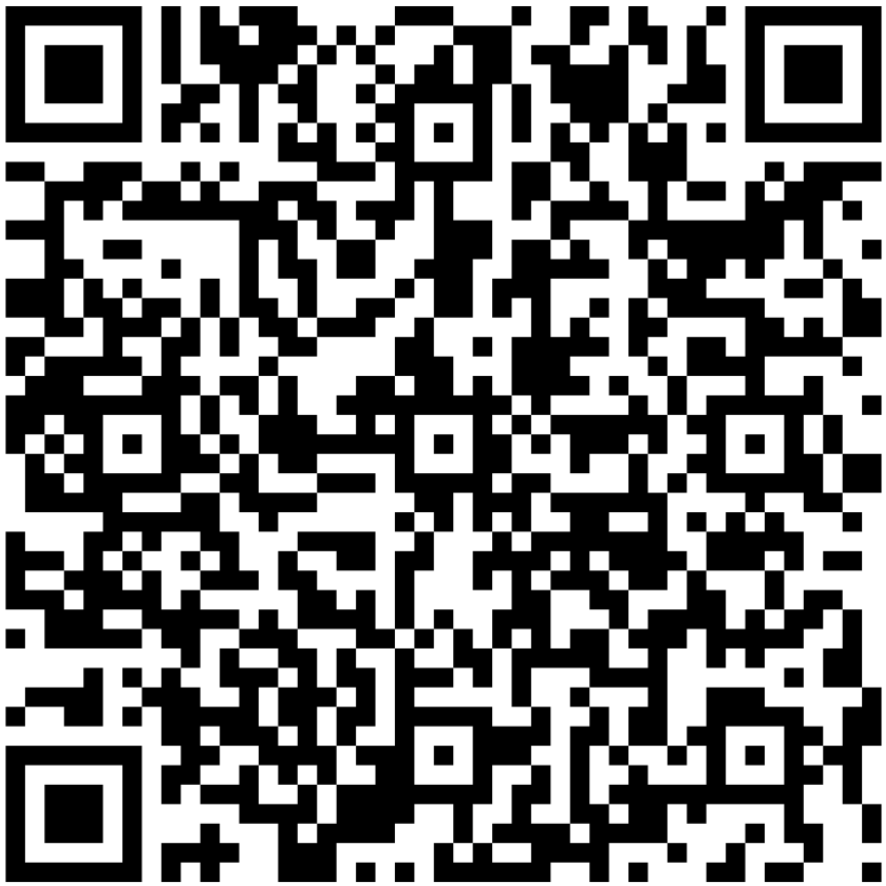
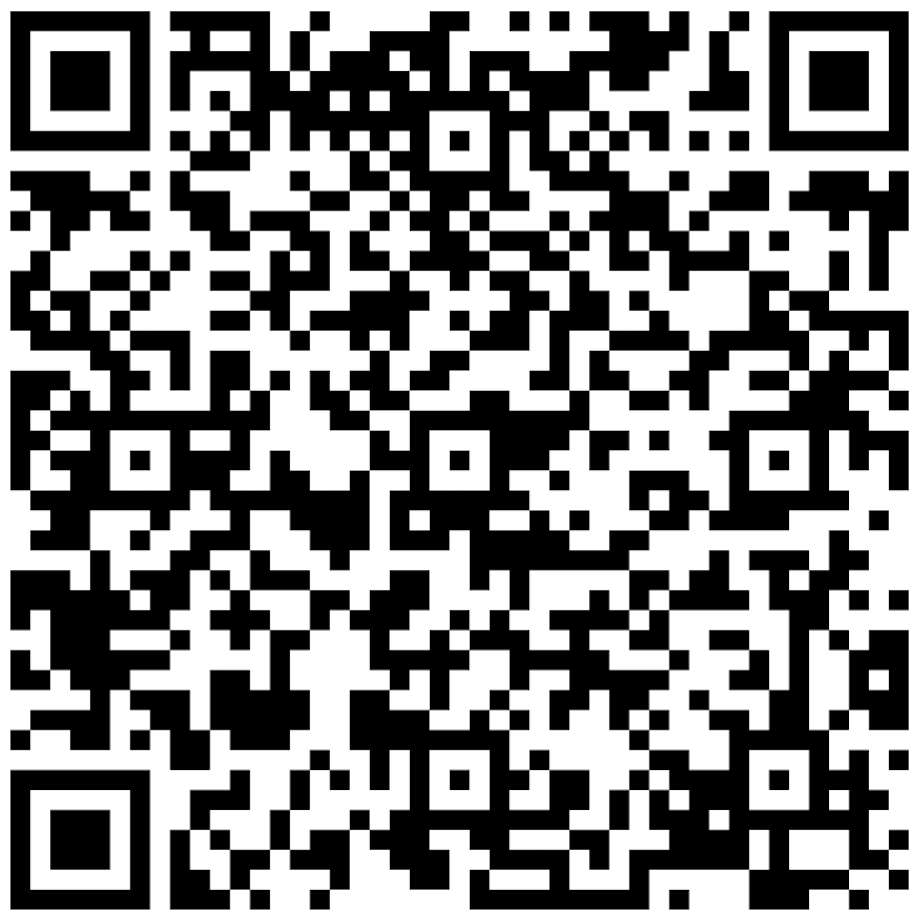
update qr

diff --git a/src/pages/chat/create/components/welcome-section.tsx b/src/pages/chat/create/components/welcome-section.tsx
@@ -3,7 +3,7 @@ const WelcomeSection = () => {
     <>
       <a
         target="_blank"
-        href="https://forms.office.com/Pages/ResponsePage.aspx?id=FM9wg_MWFky4PHJAcWVDVjmQyI33t55Ch-24lIq1xThURFkyTEE4SjVWRkpHMzJKREQzTk0wSFlMVC4u&origin=QRCode"
+        href="https://eur03.safelinks.protection.outlook.com/?url=https%3A%2F%2Fforms.office.com%2FPages%2FDesignPageV2.aspx%3Fsubpage%3Ddesign%26FormId%3DFM9wg_MWFky4PHJAcWVDVjmQyI33t55Ch-24lIq1xThUNjFYS0xJRzlXTEZGTzBSNEFNWU00UUpNVi4u&data=05%7C02%7Canh.v.tran%40kcl.ac.uk%7C977fd21e59244894736208dd49c6d90f%7C8370cf1416f34c16b83c724071654356%7C0%7C0%7C638747840588567068%7CUnknown%7CTWFpbGZsb3d8eyJFbXB0eU1hcGkiOnRydWUsIlYiOiIwLjAuMDAwMCIsIlAiOiJXaW4zMiIsIkFOIjoiTWFpbCIsIldUIjoyfQ%3D%3D%7C0%7C%7C%7C&sdata=ma9KYoTJVJhfELAVu1ogjpMLgBFnVLG96PrRl7jMsGo%3D&reserved=0"
         className="text-white inline-flex justify-between items-center p-2 pe-4 mb-4 text-sm text-blue-200 bg-red-600 rounded-full"
       >
         <span className="text-xs bg-red-500 rounded-full px-4 py-1.5 me-3">

diff --git a/src/pages/authentication/login/index.tsx b/src/pages/authentication/login/index.tsx
@@ -94,7 +94,7 @@ const Login: React.FC<LoginProps> = ({ updateToken }) => {
           className="qr-feedback-container mt-16"
           onClick={() => {
             window.open(
-              "https://forms.office.com/Pages/ResponsePage.aspx?id=FM9wg_MWFky4PHJAcWVDVjmQyI33t55Ch-24lIq1xThURFkyTEE4SjVWRkpHMzJKREQzTk0wSFlMVC4u&origin=QRCode",
+              "https://eur03.safelinks.protection.outlook.com/?url=https%3A%2F%2Fforms.office.com%2FPages%2FDesignPageV2.aspx%3Fsubpage%3Ddesign%26FormId%3DFM9wg_MWFky4PHJAcWVDVjmQyI33t55Ch-24lIq1xThUNjFYS0xJRzlXTEZGTzBSNEFNWU00UUpNVi4u&data=05%7C02%7Canh.v.tran%40kcl.ac.uk%7C977fd21e59244894736208dd49c6d90f%7C8370cf1416f34c16b83c724071654356%7C0%7C0%7C638747840588567068%7CUnknown%7CTWFpbGZsb3d8eyJFbXB0eU1hcGkiOnRydWUsIlYiOiIwLjAuMDAwMCIsIlAiOiJXaW4zMiIsIkFOIjoiTWFpbCIsIldUIjoyfQ%3D%3D%7C0%7C%7C%7C&sdata=ma9KYoTJVJhfELAVu1ogjpMLgBFnVLG96PrRl7jMsGo%3D&reserved=0",
               "_blank",
             );
           }}
